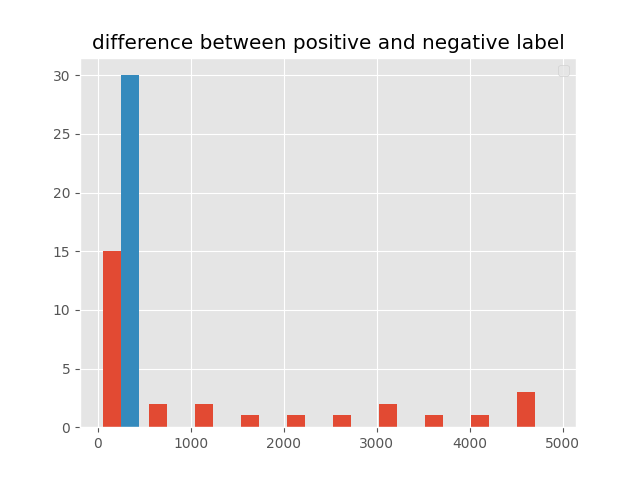
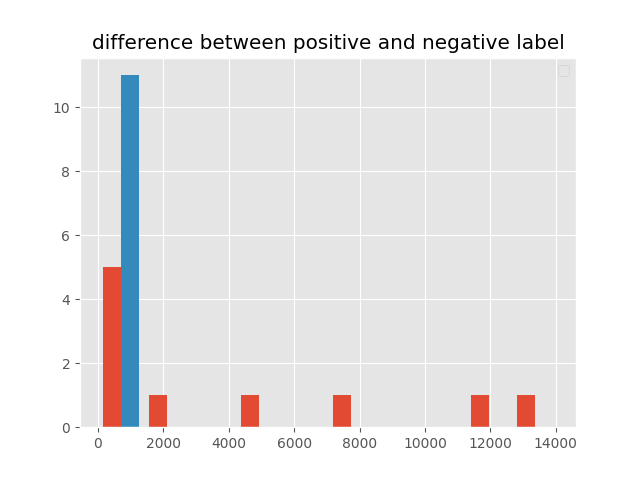
forgot index

diff --git a/plot_sentiment.py b/plot_sentiment.py
@@ -46,7 +46,7 @@ def plot_uncertainty_diff():
     print(label_diff)
     bins = np.linspace(np.min(label_diff), np.max(label_diff), n)
     #bins = math.ceil((np.max(labels) - np.min(labels))/w) 
-    hist = np.histogram(label_diff, bins = bins)
+    hist = np.histogram(label_diff)#, bins = bins)
     plt.hist(hist)
     plt.legend()
     plt.title('difference between positive and negative label')
